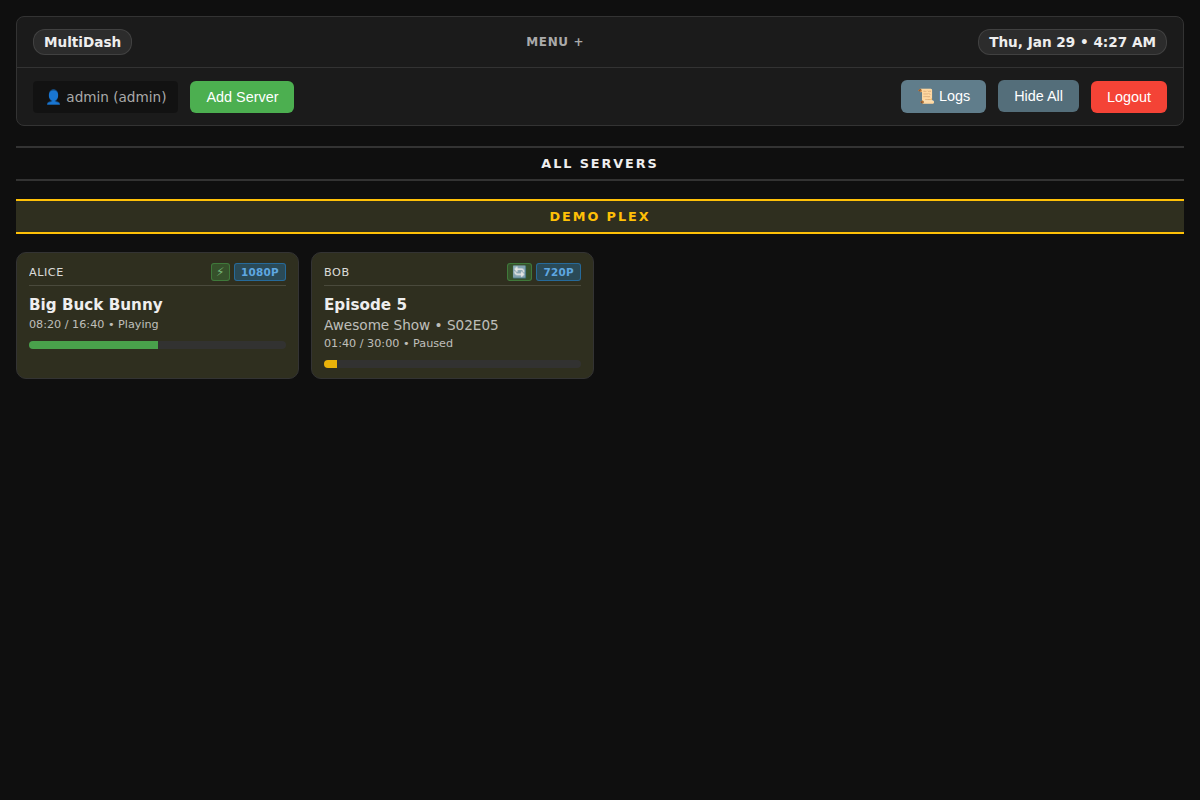
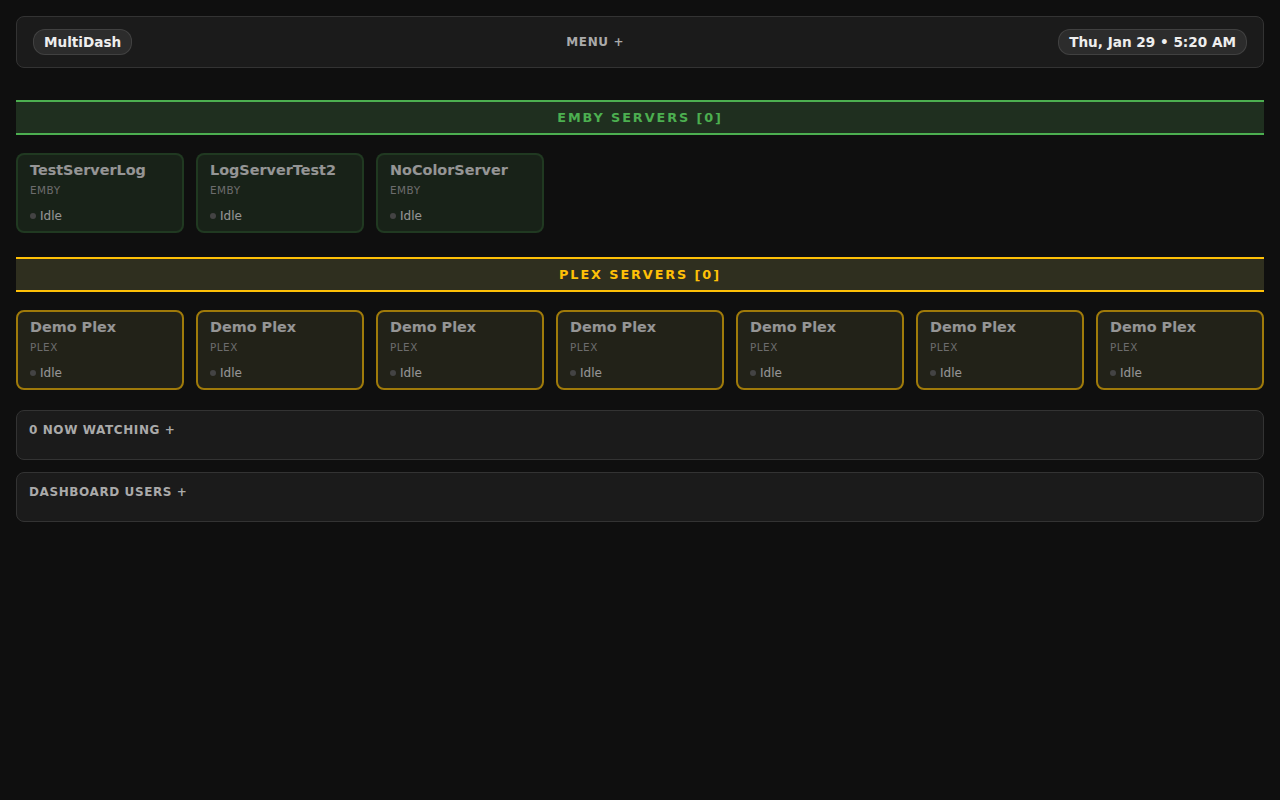
Refactor top menu, add logging system, and update docs/screenshots
- Redesigned Top Menu into three sections (Left: Reload, Center: Menu Toggle, Right: Clock).
- Implemented `logging.php` for centralized logging and `view_logs.php` for admin log viewing.
- Added log filtering (search + level) to `view_logs.php`.
- Integrated logging into core scripts (auth, proxy, server management).
- Updated `README.md` and `DEPLOYMENT.md` to reflect new features.
- Updated screenshots (`dashboard.png`, `logs.png`) to show the new UI.
- Fixed file permissions in `setup.php` (0666) for easier deployment.
- Removed legacy random color logic and reduced modal poster size.

diff --git a/README.md b/README.md
@@ -9,7 +9,7 @@ A lightweight, self-hosted dashboard for monitoring multiple Plex and Emby media
 *   **Unified Monitoring:** View active sessions from multiple Plex and Emby servers in a single grid.
 *   **Real-time Updates:** Auto-refreshing status for "Now Watching" and dashboard users.
 *   **User Management:** Built-in authentication with Admin and Viewer roles.
-*   **Logging System:** Comprehensive system logging with a built-in "tailable" log viewer.
+*   **Logging System:** Comprehensive system logging with a built-in "tailable" log viewer (filterable by level and search).
 *   **Mobile Friendly:** Responsive dark-mode UI that works great on mobile devices.
 *   **Secure:** Encrypted storage for API keys and tokens.
 
